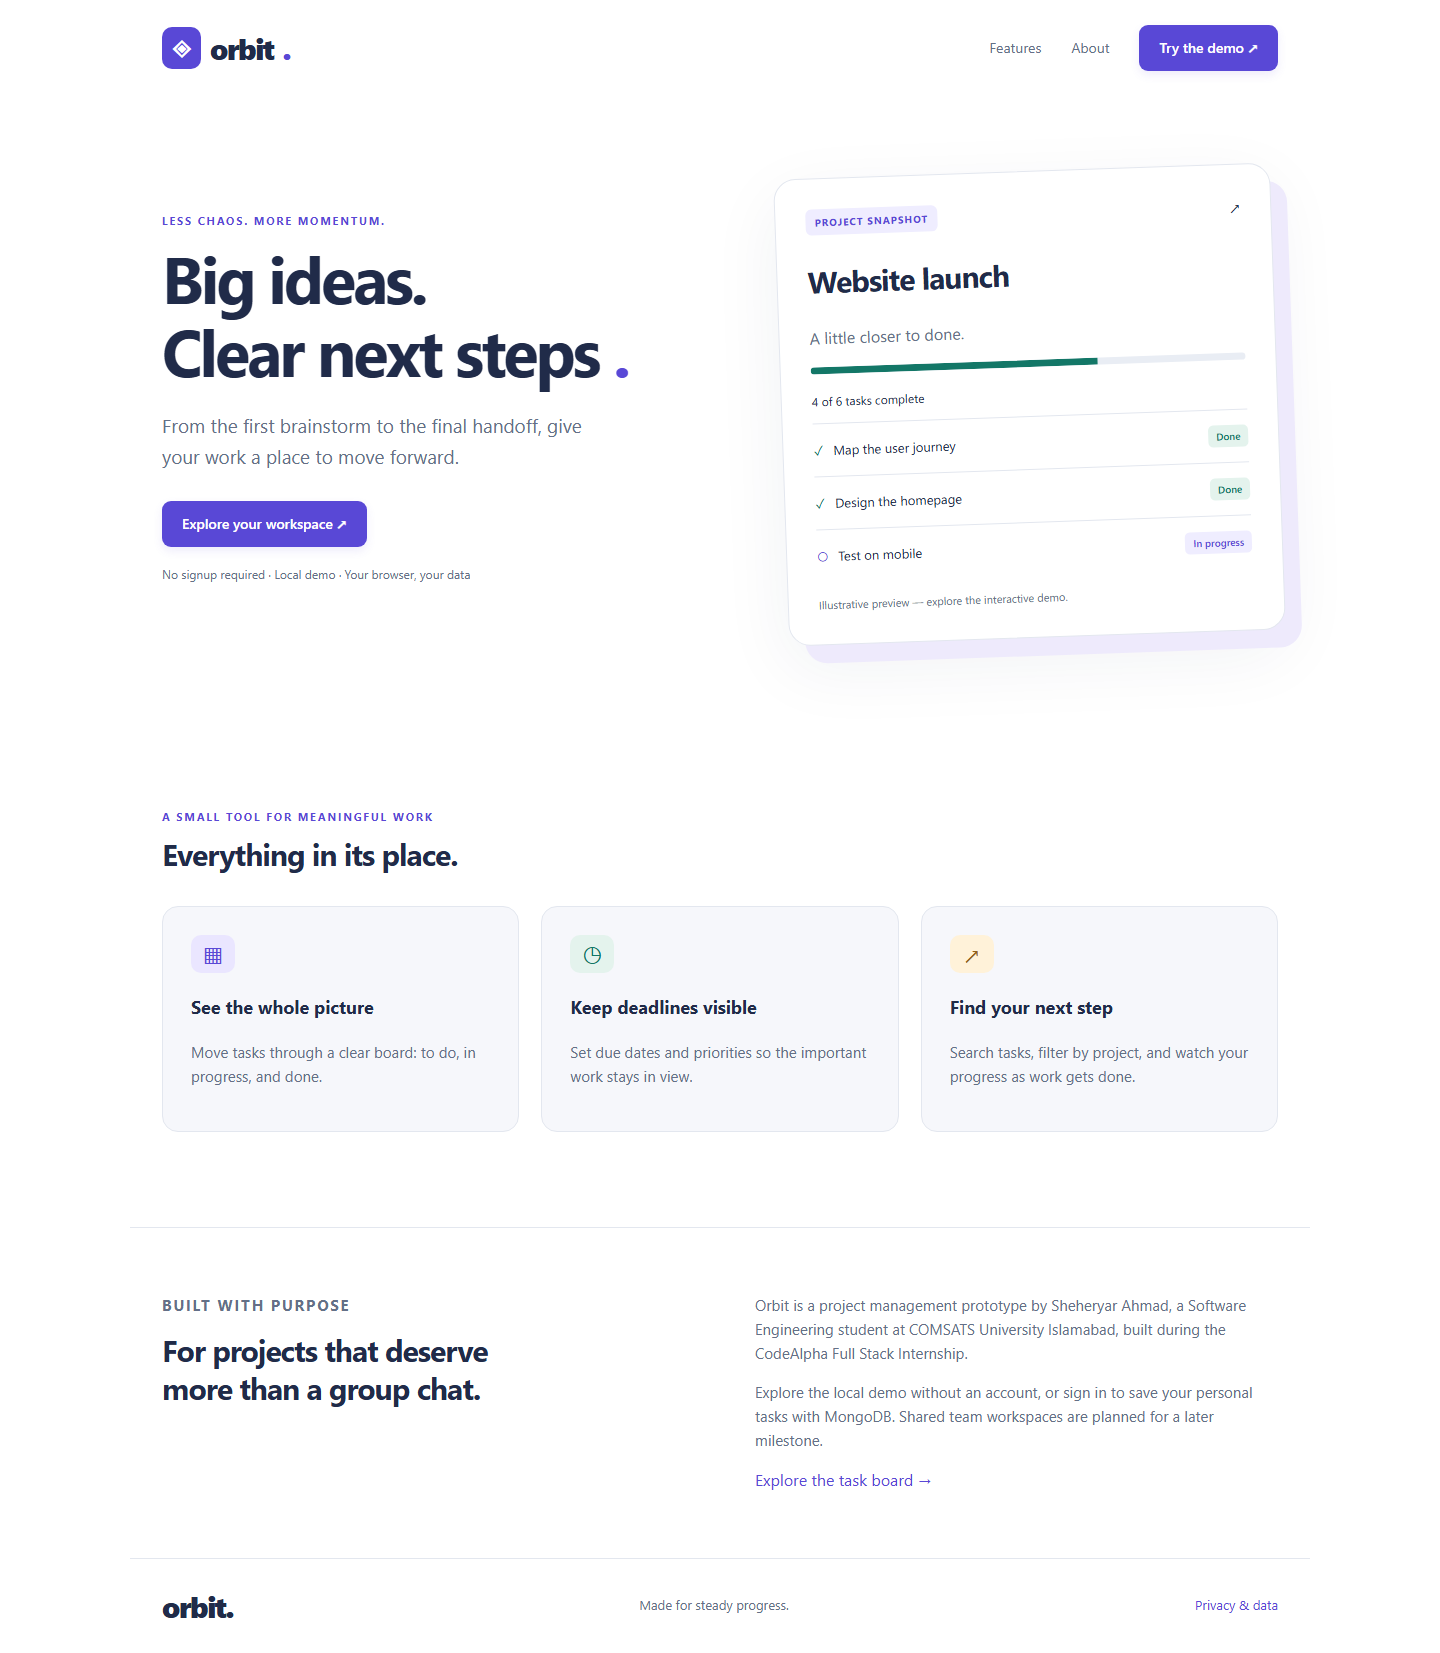
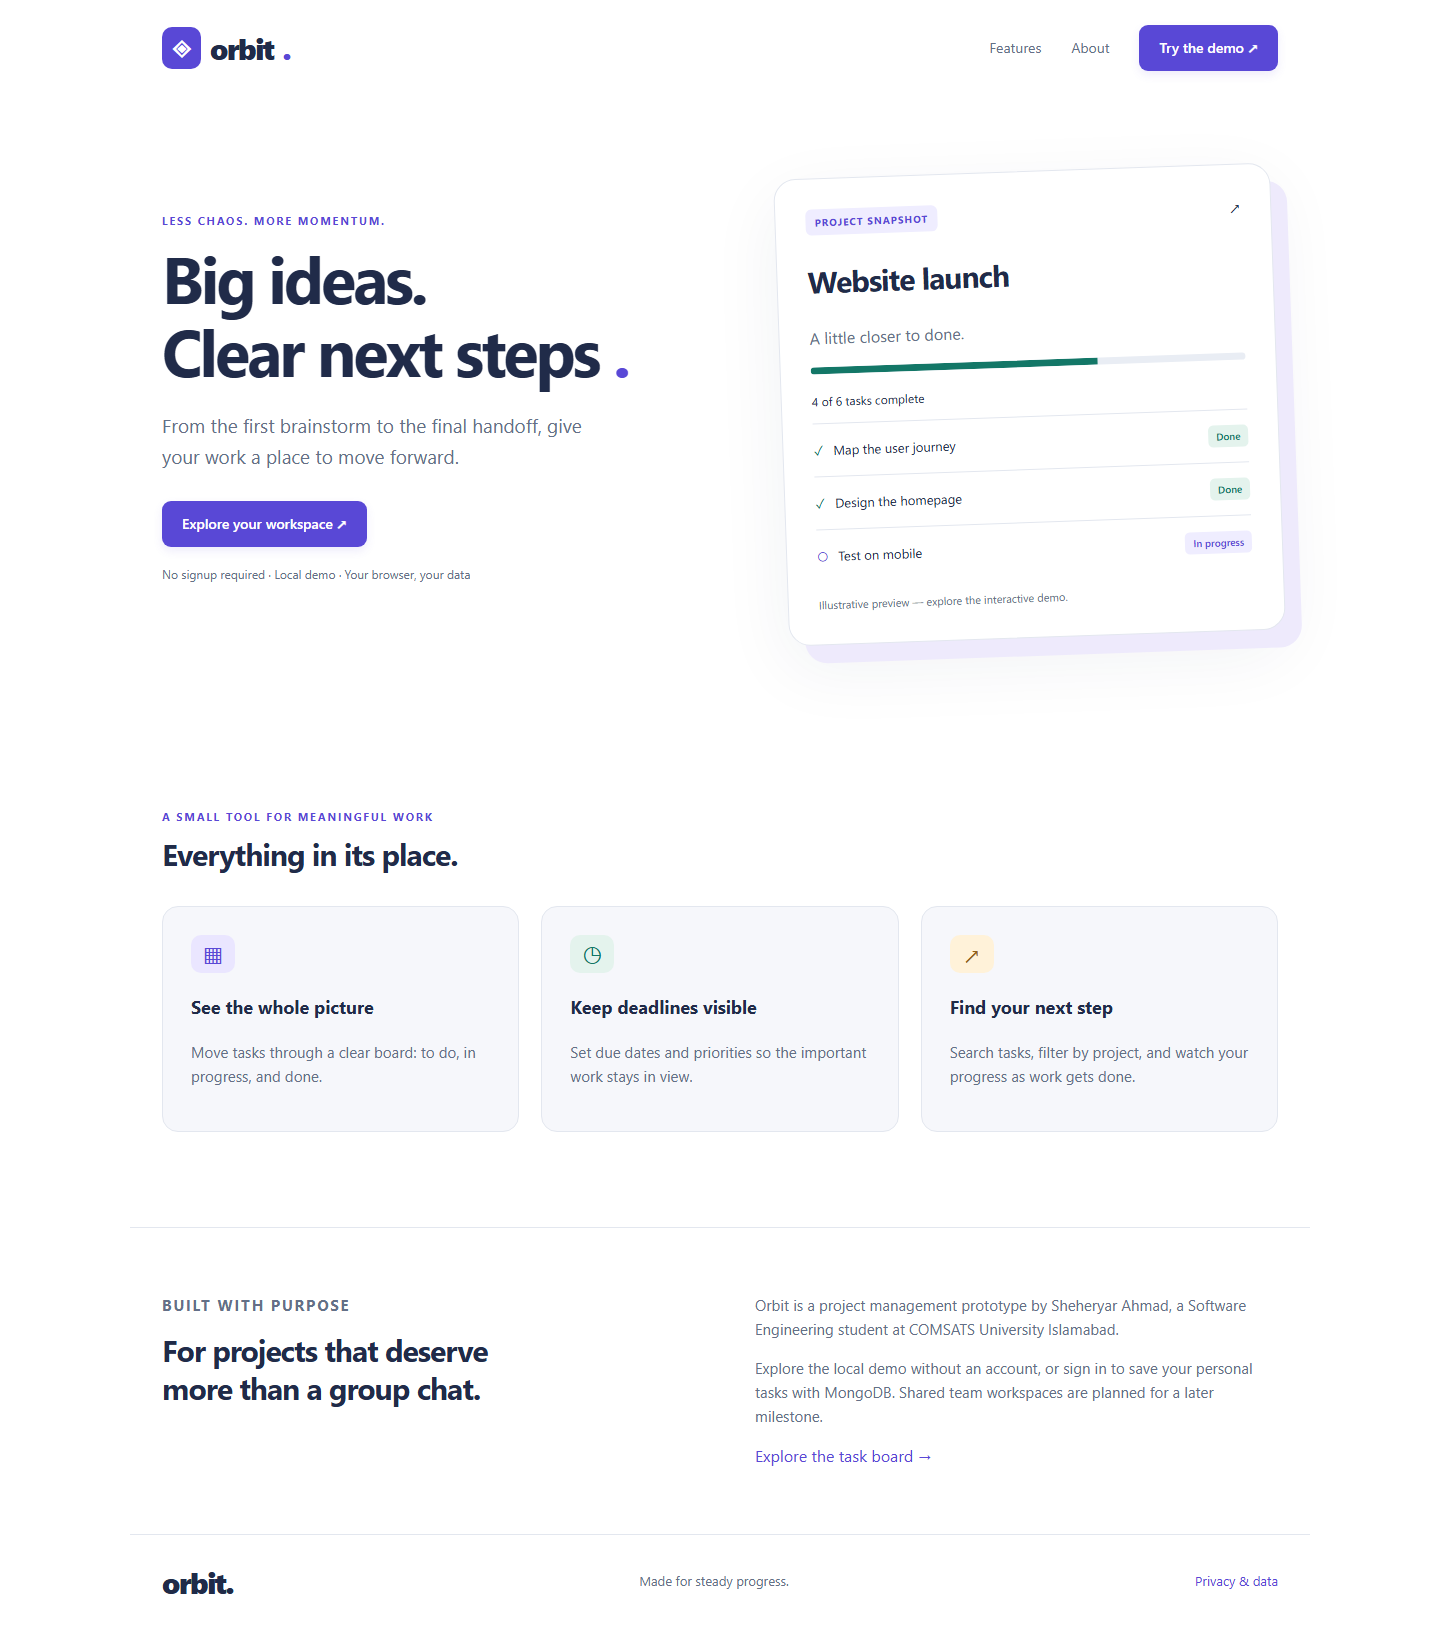
docs: remove internship wording from project content

diff --git a/tests/api.test.js b/tests/api.test.js
@@ -86,7 +86,7 @@ test('create, list, and update tasks without losing omitted fields', async () =>
     .set('Origin', origin)
     .send({
       title: 'Task [alpha]',
-      project: 'Internship',
+      project: 'Planning',
       description: 'Keep this description',
       priority: 'high',
       due: '2026-01-01',
@@ -131,7 +131,7 @@ test('pagination is bounded and overview excludes completed overdue tasks', asyn
   await alice
     .post('/api/tasks')
     .set('Origin', origin)
-    .send({ title: 'Second task', project: 'Internship', due: '2026-01-01' })
+    .send({ title: 'Second task', project: 'Planning', due: '2026-01-01' })
     .expect(201);
   const page = await alice.get('/api/tasks?limit=1').expect(200);
   assert.equal(page.body.tasks.length, 1);

diff --git a/privacy.html b/privacy.html
@@ -21,9 +21,8 @@
       <p class="eyebrow">YOUR DATA</p>
       <h1>Privacy &amp; your workspace</h1>
       <p>
-        Orbit is a project management application by Sheheryar Ahmad, developed during the
-        CodeAlpha internship. This notice describes the current personal-workspace
-        implementation.
+        Orbit is a project management application by Sheheryar Ahmad. This notice
+        describes the current personal-workspace implementation.
       </p>
       <h2>Local demo</h2>
       <p>

diff --git a/index.html b/index.html
@@ -116,8 +116,7 @@
         <div>
           <p>
             Orbit is a project management prototype by Sheheryar Ahmad, a Software
-            Engineering student at COMSATS University Islamabad, built during the
-            CodeAlpha Full Stack Internship.
+            Engineering student at COMSATS University Islamabad.
           </p>
           <p>
             Explore the local demo without an account, or sign in to save your personal

diff --git a/README.md b/README.md
@@ -24,7 +24,7 @@ A project starts with an idea. Then come the messages, scattered notes, and dead
 
 **Orbit brings the next steps into one workspace.** Organize tasks by project, choose priorities, keep deadlines visible, and see work move from **To do → In progress → Done**.
 
-Built by **Sheheryar Ahmad**, a Semester 5 Software Engineering student at **COMSATS University Islamabad**, during the **CodeAlpha Full Stack Development Internship · October 1–30, 2026**.
+Built by **Sheheryar Ahmad**, a Semester 5 Software Engineering student at **COMSATS University Islamabad**.
 
 > **Current release: 0.2.0.** Personal task workspaces with MERN persistence and a separate local demo. Shared team projects, invitations, and live collaboration are future milestones. No production deployment is claimed.
 
@@ -250,8 +250,6 @@ Once the core is stable, the strongest optional additions are **activity history
 
 **Sheheryar Ahmad**  
 Software Engineering · COMSATS University Islamabad  
-CodeAlpha Full Stack Development Intern · October 2026
-
 [GitHub profile](https://github.com/Sheryar-Ahmad) · [Repository](https://github.com/Sheryar-Ahmad/CodeAlpha_Project-Management-Tool)
 
 Copyright © 2026 Sheheryar Ahmad. [MIT License](LICENSE). Copies or substantial portions must retain the copyright and permission notice. See [NOTICE](NOTICE) for attribution.
